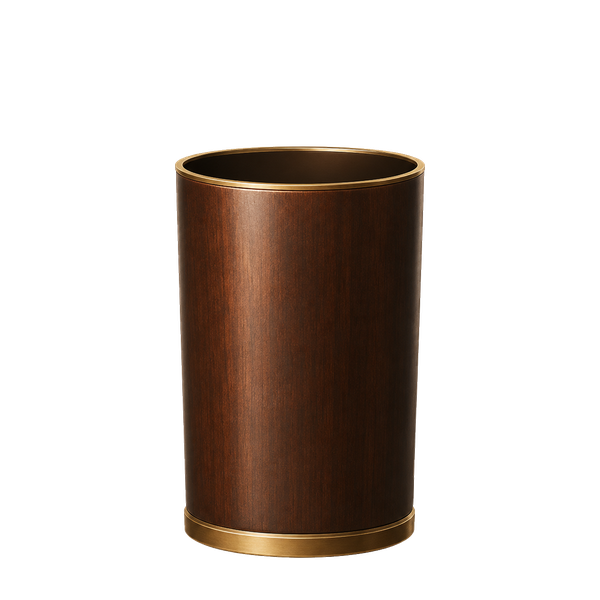
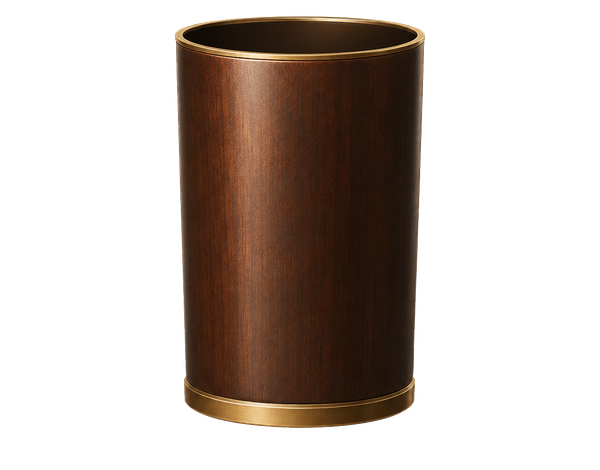
fix(paijue): 裁掉 PNG 顶部空白，签口与签条对齐

Changed region(s): [[0.27, 0.0298, 0.72, 0.9532]]

diff --git a/css/style.css b/css/style.css
@@ -1050,7 +1050,7 @@ body { padding-bottom: calc(144px + env(safe-area-inset-bottom)) !important; }
   flex-direction: column;
   align-items: center;
   z-index: 5;
-  margin-top: -90px;      /* 筒口盖住签条底部约 40px */
+  margin-top: -100px;     /* 筒口盖住签条底部约 50px */
   transform-origin: 50% 75%;
 }
 

diff --git a/index.html b/index.html
@@ -6,7 +6,7 @@
     <title>猫店德州结算</title>
     <link rel="icon" type="image/png" href="img/paw.png">
     <link rel="apple-touch-icon" href="img/paw.png">
-    <link rel="stylesheet" href="css/style.css?v=62">
+    <link rel="stylesheet" href="css/style.css?v=63">
 </head>
 <body>
 <div class="container" id="main-view">